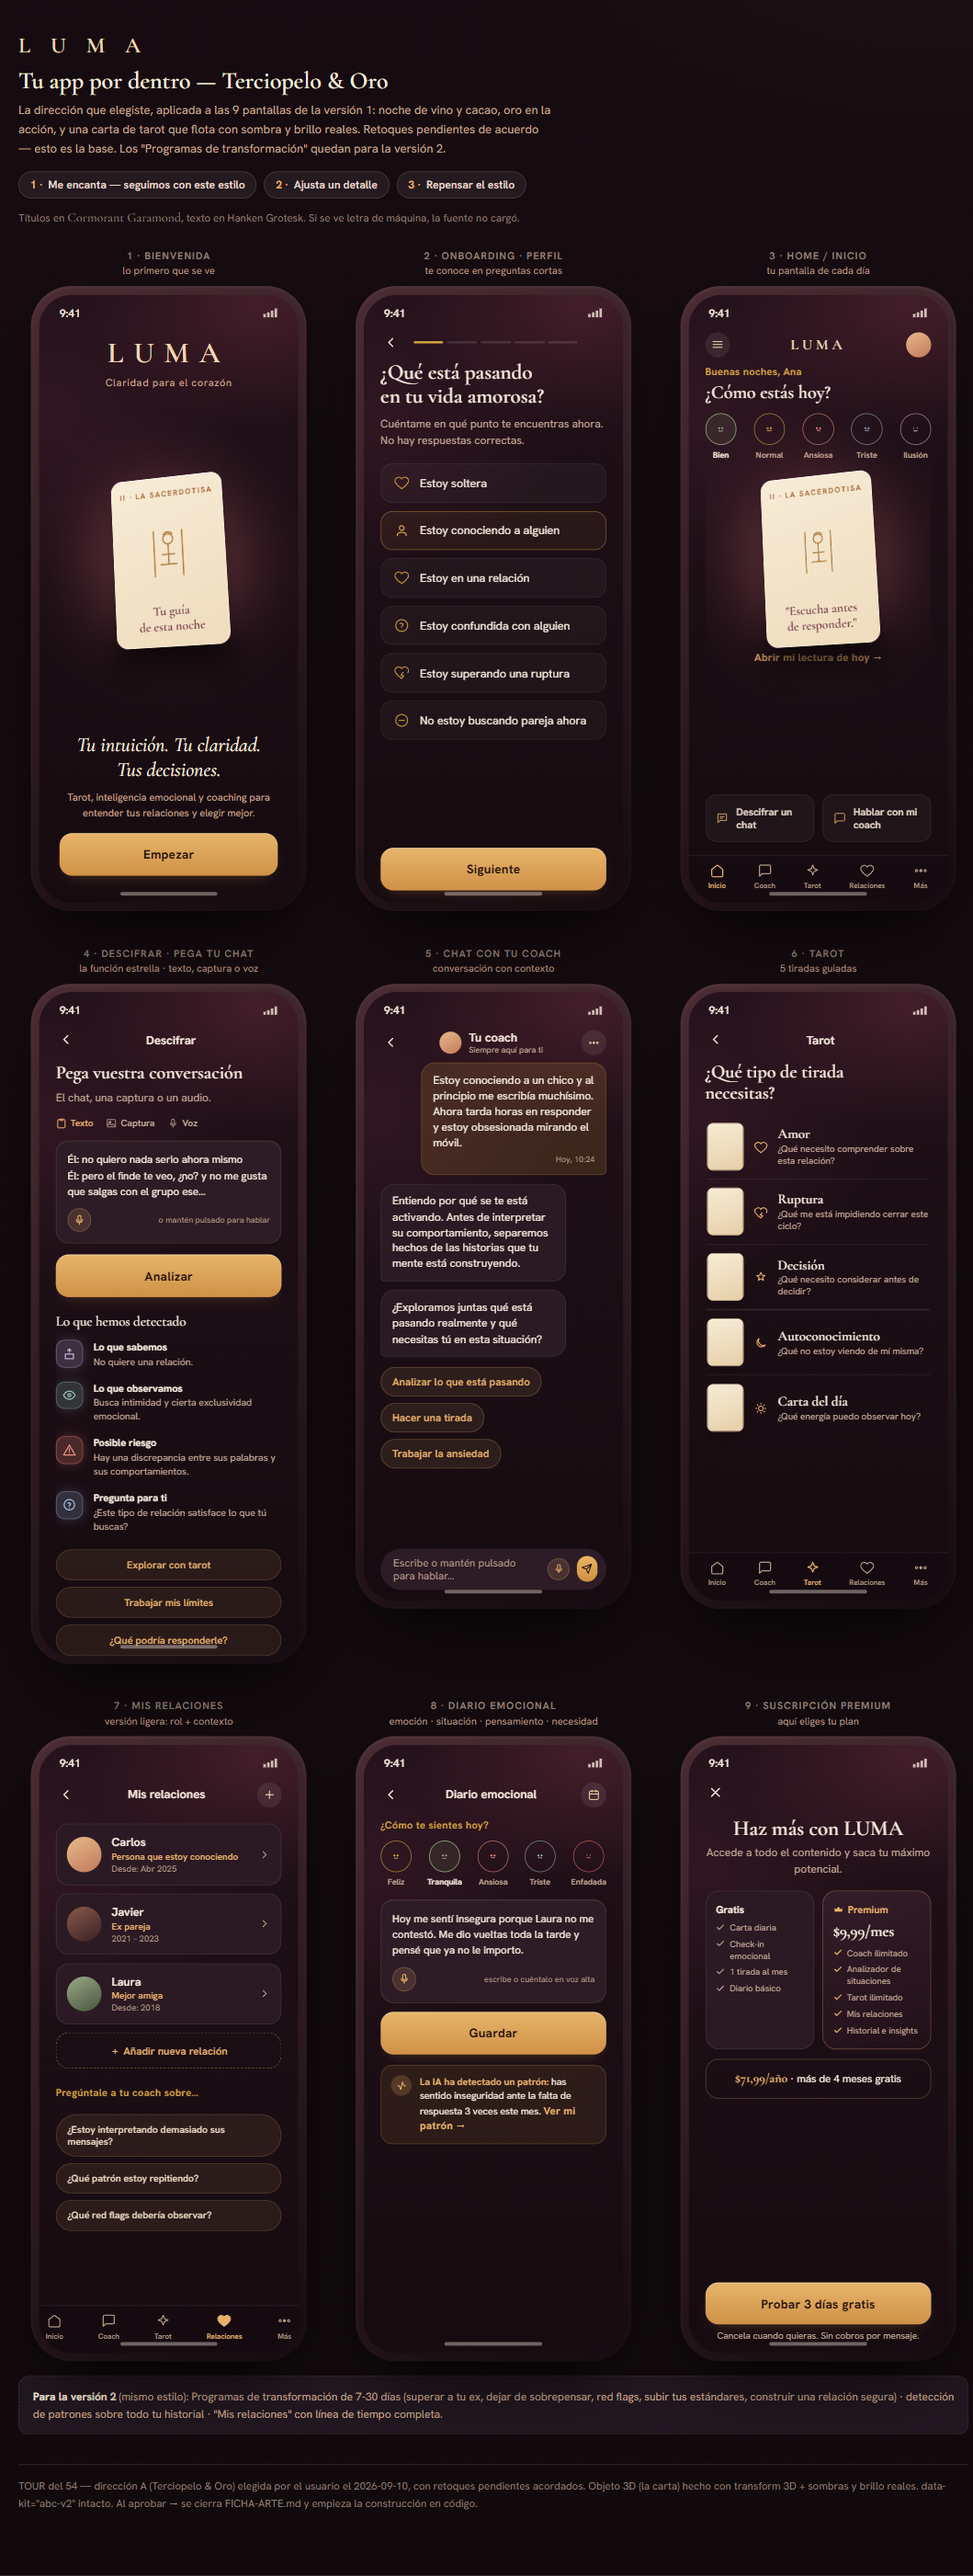
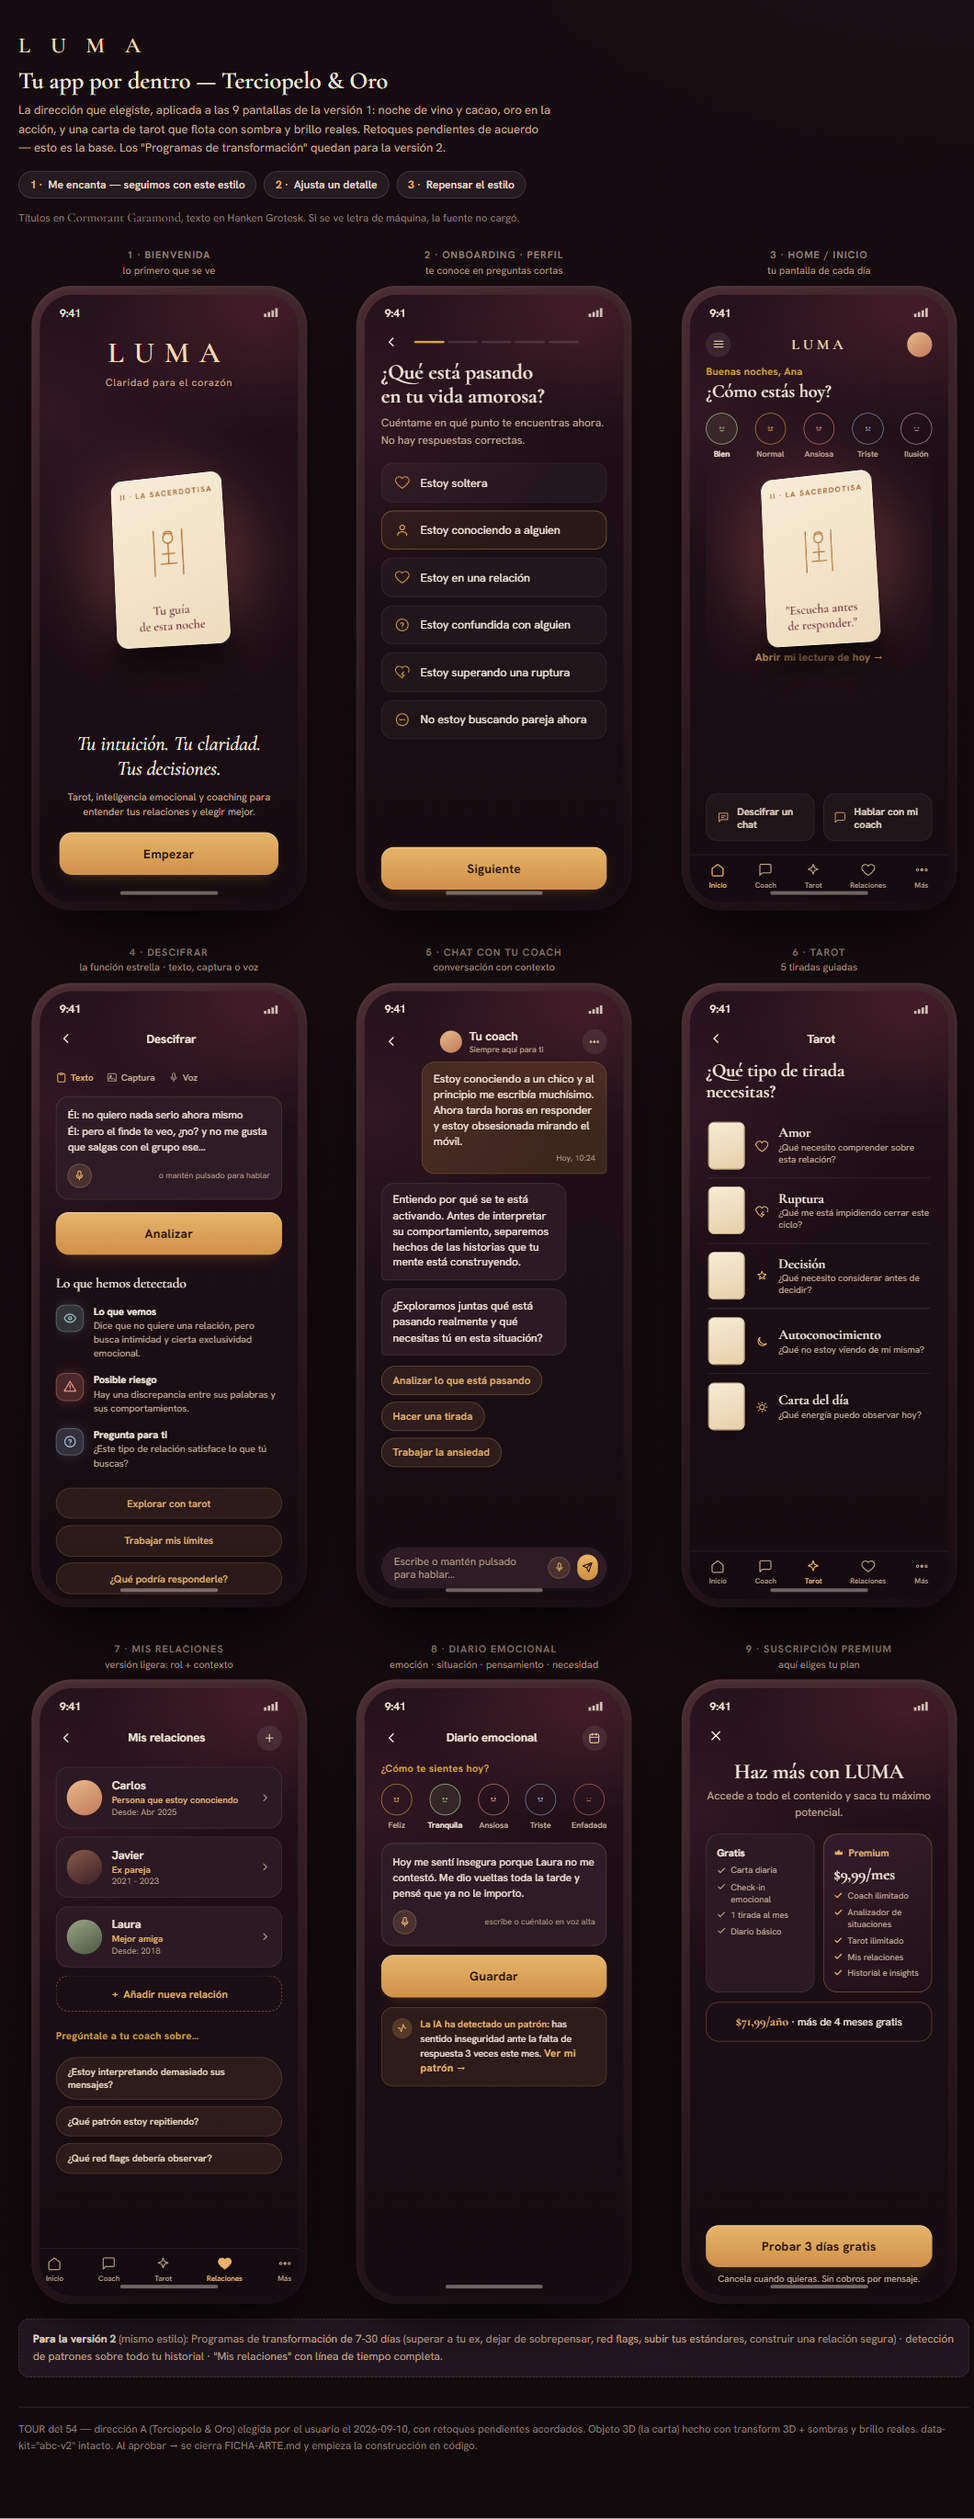
style(sesion-2): Descifrar mas ligera — sin encabezado ni subtitulo, resultados 4->3
Pedido del usuario:
- quitado el encabezado 'Pega vuestra conversacion'
- quitada la linea 'el chat, una captura o un audio'
- fusionados 'Lo que sabemos' + 'Lo que observamos' en un unico item 'Lo que vemos'
La pantalla pasa de 4 a 3 items de resultado y respira mucho mas.

diff --git a/vista-previa-app.html b/vista-previa-app.html
@@ -315,29 +315,26 @@
 
   <!-- 4 · ANALIZADOR -->
   <div class="fw">
-    <div class="rot">4 · Descifrar · pega tu chat<small>la función estrella · texto, captura o voz</small></div>
+    <div class="rot">4 · Descifrar<small>la función estrella · texto, captura o voz</small></div>
     <div class="ph"><div class="scr">
       <div class="sb"><span>9:41</span><span class="r"><svg width="16" height="10" viewBox="0 0 17 11" fill="currentColor"><rect x="0" y="7" width="3" height="4" rx=".8"/><rect x="4.5" y="5" width="3" height="6" rx=".8"/><rect x="9" y="3" width="3" height="8" rx=".8"/><rect x="13.5" y=".5" width="3" height="10.5" rx=".8"/></svg></span></div>
       <div class="pn">
         <div class="bar"><span class="bk"><svg width="17" height="17" viewBox="0 0 24 24" fill="none" stroke="currentColor" stroke-width="2" stroke-linecap="round" stroke-linejoin="round"><path d="M15 18l-6-6 6-6"/></svg></span><span class="ttl">Descifrar</span><span style="width:17px"></span></div>
         <div class="sc">
-          <h2 class="t sm" style="margin-top:6px">Pega vuestra conversación</h2>
-          <p class="bd" style="margin-top:6px">El chat, una captura o un audio.</p>
-          <div class="inmodes">
+          <div class="inmodes" style="margin-top:16px">
             <span class="im on"><svg viewBox="0 0 24 24" fill="none" stroke="currentColor" stroke-width="2" stroke-linecap="round" stroke-linejoin="round"><path d="M8 4H6a2 2 0 0 0-2 2v14a2 2 0 0 0 2 2h12a2 2 0 0 0 2-2V6a2 2 0 0 0-2-2h-2M9 3h6v3H9z"/></svg>Texto</span>
             <span class="im"><svg viewBox="0 0 24 24" fill="none" stroke="currentColor" stroke-width="2" stroke-linecap="round" stroke-linejoin="round"><rect x="3" y="4" width="18" height="16" rx="2"/><circle cx="9" cy="10" r="2"/><path d="m3 17 5-4 4 3 3-2 6 5"/></svg>Captura</span>
             <span class="im"><svg viewBox="0 0 24 24" fill="none" stroke="currentColor" stroke-width="2" stroke-linecap="round" stroke-linejoin="round"><rect x="9" y="3" width="6" height="11" rx="3"/><path d="M6 11a6 6 0 0 0 12 0M12 17v4"/></svg>Voz</span>
           </div>
-          <div class="field" style="margin-top:10px">Él: no quiero nada serio ahora mismo<br>Él: pero el finde te veo, ¿no? y no me gusta que salgas con el grupo ese…
+          <div class="field" style="margin-top:12px">Él: no quiero nada serio ahora mismo<br>Él: pero el finde te veo, ¿no? y no me gusta que salgas con el grupo ese…
             <div class="ff"><span class="mic"><svg width="13" height="13" viewBox="0 0 24 24" fill="none" stroke="currentColor" stroke-width="2" stroke-linecap="round" stroke-linejoin="round"><rect x="9" y="3" width="6" height="11" rx="3"/><path d="M6 11a6 6 0 0 0 12 0M12 17v4"/></svg></span><span class="cnt">o mantén pulsado para hablar</span></div>
           </div>
-          <div class="btn" style="margin-top:12px">Analizar</div>
-          <p style="font-family:var(--fd);font-size:15px;color:#f4e7db;margin:18px 0 4px">Lo que hemos detectado</p>
-          <div class="det"><span class="dot" style="background:rgb(169 155 196/.24);border:1px solid rgb(169 155 196/.5);box-shadow:0 0 16px -4px rgb(169 155 196/.55)"><svg width="15" height="15" viewBox="0 0 24 24" fill="none" stroke="#bbb0d6" stroke-width="2" stroke-linecap="round"><path d="M12 3v6M12 3 9 6M12 3l3 3M5 12h14v8H5z"/></svg></span><div><h5>Lo que sabemos</h5><p>No quiere una relación.</p></div></div>
-          <div class="det"><span class="dot" style="background:rgb(127 176 170/.24);border:1px solid rgb(127 176 170/.5);box-shadow:0 0 16px -4px rgb(127 176 170/.55)"><svg width="15" height="15" viewBox="0 0 24 24" fill="none" stroke="#96c2bc" stroke-width="2" stroke-linecap="round" stroke-linejoin="round"><path d="M2 12s3.5-7 10-7 10 7 10 7-3.5 7-10 7-10-7-10-7Z"/><circle cx="12" cy="12" r="2.5"/></svg></span><div><h5>Lo que observamos</h5><p>Busca intimidad y cierta exclusividad emocional.</p></div></div>
-          <div class="det"><span class="dot" style="background:rgb(217 119 106/.26);border:1px solid rgb(217 119 106/.55);box-shadow:0 0 16px -4px rgb(217 119 106/.6)"><svg width="15" height="15" viewBox="0 0 24 24" fill="none" stroke="#e79082" stroke-width="2" stroke-linecap="round" stroke-linejoin="round"><path d="M12 3 2 20h20L12 3ZM12 9v5M12 17h.01"/></svg></span><div><h5>Posible riesgo</h5><p>Hay una discrepancia entre sus palabras y sus comportamientos.</p></div></div>
-          <div class="det"><span class="dot" style="background:rgb(138 164 198/.24);border:1px solid rgb(138 164 198/.5);box-shadow:0 0 16px -4px rgb(138 164 198/.55)"><svg width="15" height="15" viewBox="0 0 24 24" fill="none" stroke="#a3b9d6" stroke-width="2" stroke-linecap="round"><circle cx="12" cy="12" r="9"/><path d="M9.5 9.5a2.5 2.5 0 0 1 4.5 1.5c0 2-2.5 2-2.5 3.5M12 17.5h.01"/></svg></span><div><h5>Pregunta para ti</h5><p>¿Este tipo de relación satisface lo que tú buscas?</p></div></div>
-          <div class="acts" style="margin-top:10px">
+          <div class="btn" style="margin-top:14px">Analizar</div>
+          <p style="font-family:var(--fd);font-size:15px;color:#f4e7db;margin:22px 0 8px">Lo que hemos detectado</p>
+          <div class="det"><span class="dot" style="background:rgb(127 176 170/.24);border:1px solid rgb(127 176 170/.5);box-shadow:0 0 16px -4px rgb(127 176 170/.5)"><svg width="15" height="15" viewBox="0 0 24 24" fill="none" stroke="#96c2bc" stroke-width="2" stroke-linecap="round" stroke-linejoin="round"><path d="M2 12s3.5-7 10-7 10 7 10 7-3.5 7-10 7-10-7-10-7Z"/><circle cx="12" cy="12" r="2.5"/></svg></span><div><h5>Lo que vemos</h5><p>Dice que no quiere una relación, pero busca intimidad y cierta exclusividad emocional.</p></div></div>
+          <div class="det"><span class="dot" style="background:rgb(217 119 106/.26);border:1px solid rgb(217 119 106/.55);box-shadow:0 0 16px -4px rgb(217 119 106/.55)"><svg width="15" height="15" viewBox="0 0 24 24" fill="none" stroke="#e79082" stroke-width="2" stroke-linecap="round" stroke-linejoin="round"><path d="M12 3 2 20h20L12 3ZM12 9v5M12 17h.01"/></svg></span><div><h5>Posible riesgo</h5><p>Hay una discrepancia entre sus palabras y sus comportamientos.</p></div></div>
+          <div class="det"><span class="dot" style="background:rgb(138 164 198/.24);border:1px solid rgb(138 164 198/.5);box-shadow:0 0 16px -4px rgb(138 164 198/.5)"><svg width="15" height="15" viewBox="0 0 24 24" fill="none" stroke="#a3b9d6" stroke-width="2" stroke-linecap="round"><circle cx="12" cy="12" r="9"/><path d="M9.5 9.5a2.5 2.5 0 0 1 4.5 1.5c0 2-2.5 2-2.5 3.5M12 17.5h.01"/></svg></span><div><h5>Pregunta para ti</h5><p>¿Este tipo de relación satisface lo que tú buscas?</p></div></div>
+          <div class="acts" style="margin-top:12px">
             <span>Explorar con tarot</span>
             <span>Trabajar mis límites</span>
             <span>¿Qué podría responderle?</span>

diff --git a/ESTADO.md b/ESTADO.md
@@ -1,7 +1,7 @@
 # ESTADO — LUMA (nombre de trabajo)
 Última actualización: 2026-09-09 | Sesión actual: 1 (cerrando)
 
-⏸ CHECKPOINT — Última acción completada: Sesión 2 — dirección A + 2 rondas de retoques del tour. Última ronda (2026-09-10): pasada de DENSIDAD — menos saturación (blooms de fondo más suaves, sin glow en emociones ni en botones), menos elementos arriba en Home (pregunta a 1 línea, sin párrafo redundante, 5 emociones, accesos al fondo), Descifrar más liviano (modos como texto, no botones) / Siguiente acción exacta: el usuario aprueba el tour (1=me encanta / 2=más ajustes / 3=repensar) → cerrar FICHA-ARTE.md → Sesión 3 (página de ventas)
+⏸ CHECKPOINT — Última acción completada: Sesión 2 — dirección A + 3 rondas de retoques del tour. Última (2026-09-10): pantalla Descifrar aún más liviana — sin encabezado "Pega vuestra conversación", sin la línea "el chat, una captura o un audio", y "Lo que sabemos"+"Lo que observamos" fusionados en un solo item "Lo que vemos" (3 items en vez de 4) / Siguiente acción exacta: el usuario aprueba el tour (1=me encanta / 2=más ajustes / 3=repensar) → cerrar FICHA-ARTE.md → Sesión 3 (página de ventas)
 
 ## Qué es esta app (3 líneas máximo)
 Coach de bolsillo de inteligencia emocional para el amor y las relaciones: combina IA, tarot y

diff --git a/FICHA-ARTE.md b/FICHA-ARTE.md
@@ -122,6 +122,9 @@
   · Home: pregunta a 1 línea, sin el párrafo de insight redundante (queda solo el enlace), 5 emociones, accesos empujados al fondo con aire
   · Descifrar: subtítulo corto, modos de entrada como texto (Texto·Captura·Voz) en vez de botones, muestra de chat a 2 líneas
   · halo de la tarjeta Premium reducido
+- Ronda de densidad #2 sobre Descifrar 2026-09-10: sin encabezado "Pega vuestra conversación", sin
+  la línea "el chat, una captura o un audio", y los items "Lo que sabemos" + "Lo que observamos"
+  fusionados en uno ("Lo que vemos") → 3 items de resultado en vez de 4. Pantalla mucho más aireada.
 - Paleta derivada de: propuesta propia (dirección A), fusionando calidez editorial (CHANI) + profundidad de degradado (The Pattern) + capa 3D cálida
 - Registro anti-repetición: paleta (vino/cacao #241019 + oro #d8a441) y par tipográfico (Cormorant Garamond + Hanken Grotesk) VETADOS para el próximo proyecto del SO
 - Modo (oscuro cálido) DERIVADO por: el brief del usuario (noche íntima, esotérico, romántico) + fusión de referencias — NO asumido por reflejo
